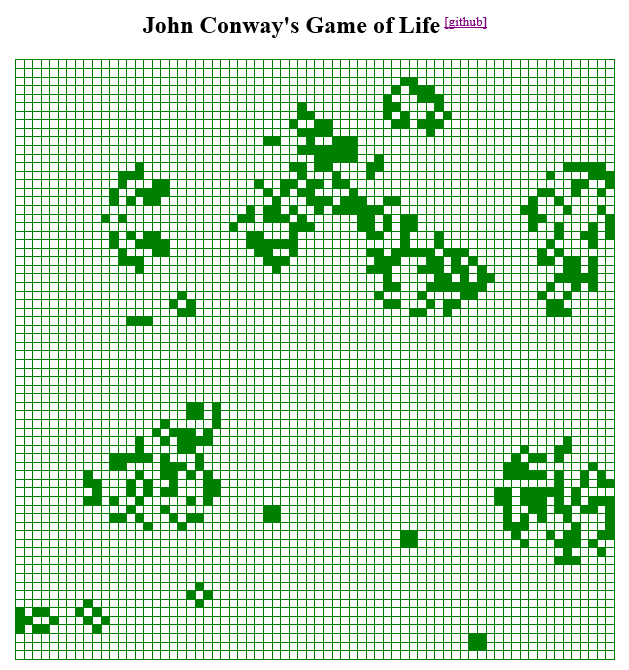
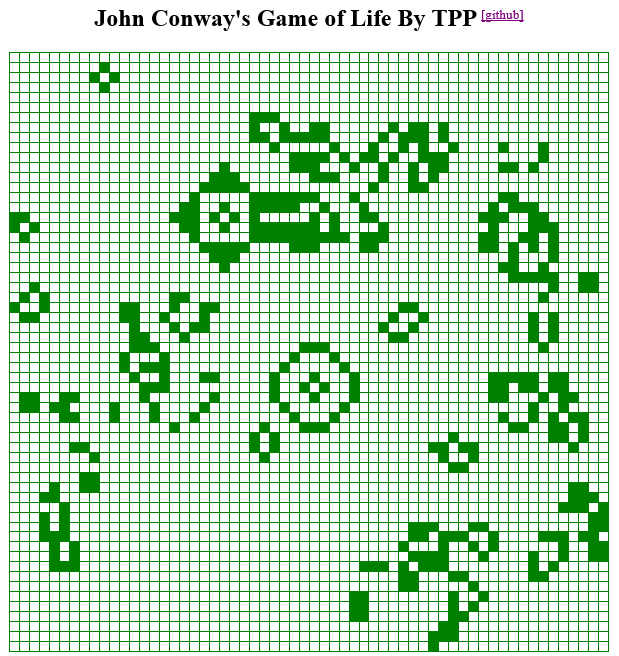
Performance tweaks. Precaching state of board on client-side. Updated description and screenshot.

diff --git a/UI.Web/App/boardManager.js b/UI.Web/App/boardManager.js
@@ -1,13 +1,15 @@
 (function boardManager() {
     "use strict";
-    var previousResponse;
+    var currentState;
+    var preloadedState;
+    var address = "/api/Board";
 
     $(document).ready(function () {
-        showNextGeneration();
-
-        setInterval(function () {
-            showNextGeneration();
-        }, 400);
+        preloadState(function () {
+            setInterval(function () {
+                showNextGeneration();
+            }, 850);
+        });
     });
 
     Handlebars.registerHelper('if_eq', function (a, b, opts) {
@@ -24,19 +26,24 @@
     var template = Handlebars.compile(rawTemplate);
 
     function showNextGeneration() {
-        console.log("next generation");
-        var address = "/api/Board";
+        var html = template(preloadedState);
+        $("#board-container").html(html);
+        currentState = preloadedState;
 
+        preloadState();
+    }
+
+    function preloadState(callback) {
         $.ajax({
             type: "POST",
             url: address,
-            data: JSON.stringify(previousResponse),
+            data: JSON.stringify(currentState),
             contentType: "application/json",
             success: function (response) {
-                previousResponse = response;
-                var html = template(response);
-                $("#board-container").html(html);
+                preloadedState = response;
             }
         });
+
+        if (callback) callback();
     }
 }(window.BoardManager = window.BoardManager || {}));

diff --git a/Core/Model/Board.cs b/Core/Model/Board.cs
@@ -3,7 +3,7 @@ using System;
 
 namespace Core.Model
 {
-    // TODO: neighbors methods and variables could be pulled to an external class
+    // TODO: neighbors' methods and variables could be pulled to an external class
     public class Board
     {
         /// <summary>
@@ -11,8 +11,8 @@ namespace Core.Model
         /// </summary>
         private const double ChanceOfCreation = 0.17;
 
-        private const int XSize = 50;
-        private const int YSize = 50;
+        private const int XSize = 60;
+        private const int YSize = 60;
 
         /// <summary>
         /// Size of array is increased in order to skip border checks in computations;

diff --git a/readme.md b/readme.md
@@ -14,7 +14,7 @@ Screenshot
 Description
 -----------
 
-A [John Conway's Game of Life](http://en.wikipedia.org/wiki/Conway%27s_Game_of_Life) implementation. Written with a TDD approach.
+A [John Conway's Game of Life](http://en.wikipedia.org/wiki/Conway%27s_Game_of_Life) implementation. Written with a TDD approach. Feedback welcomed!
 
 Technologies used
 -----------------
